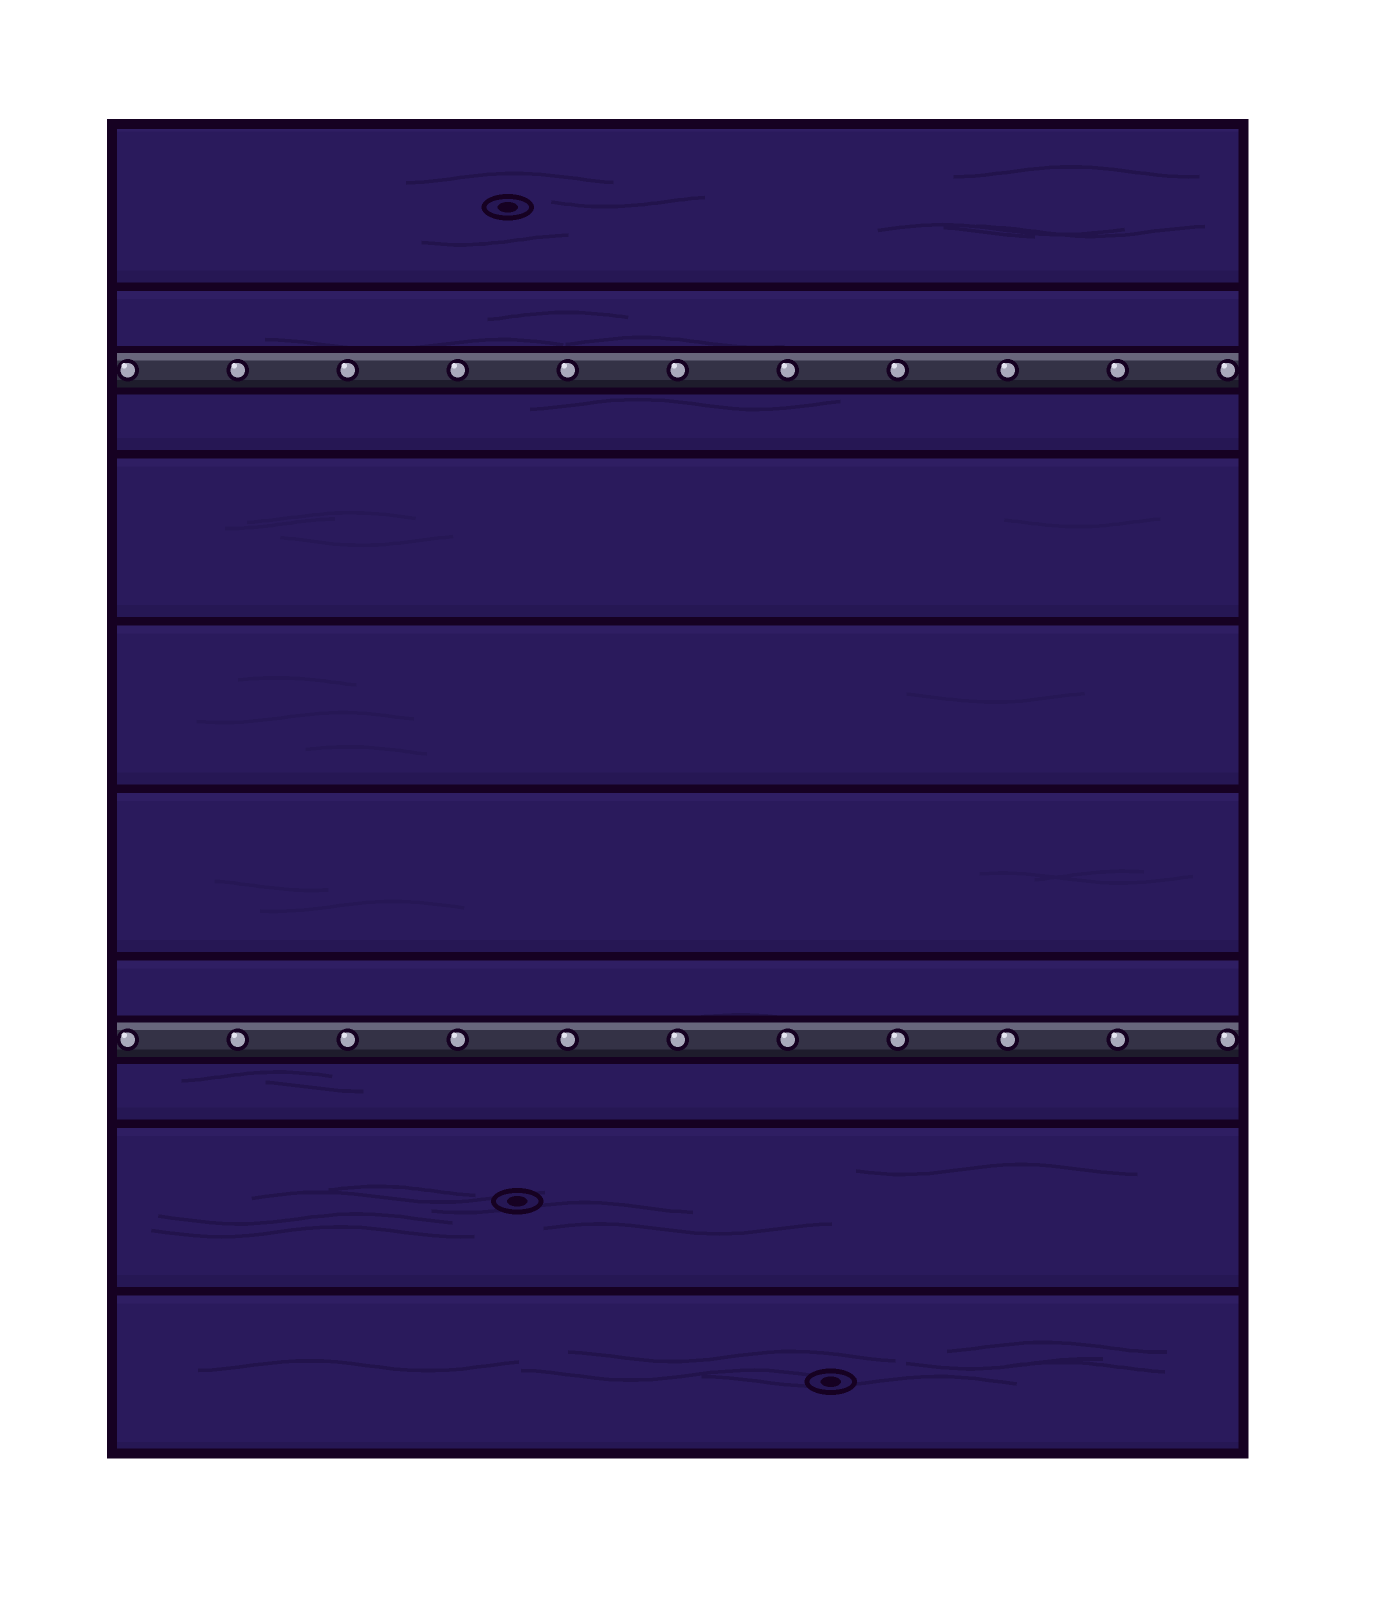
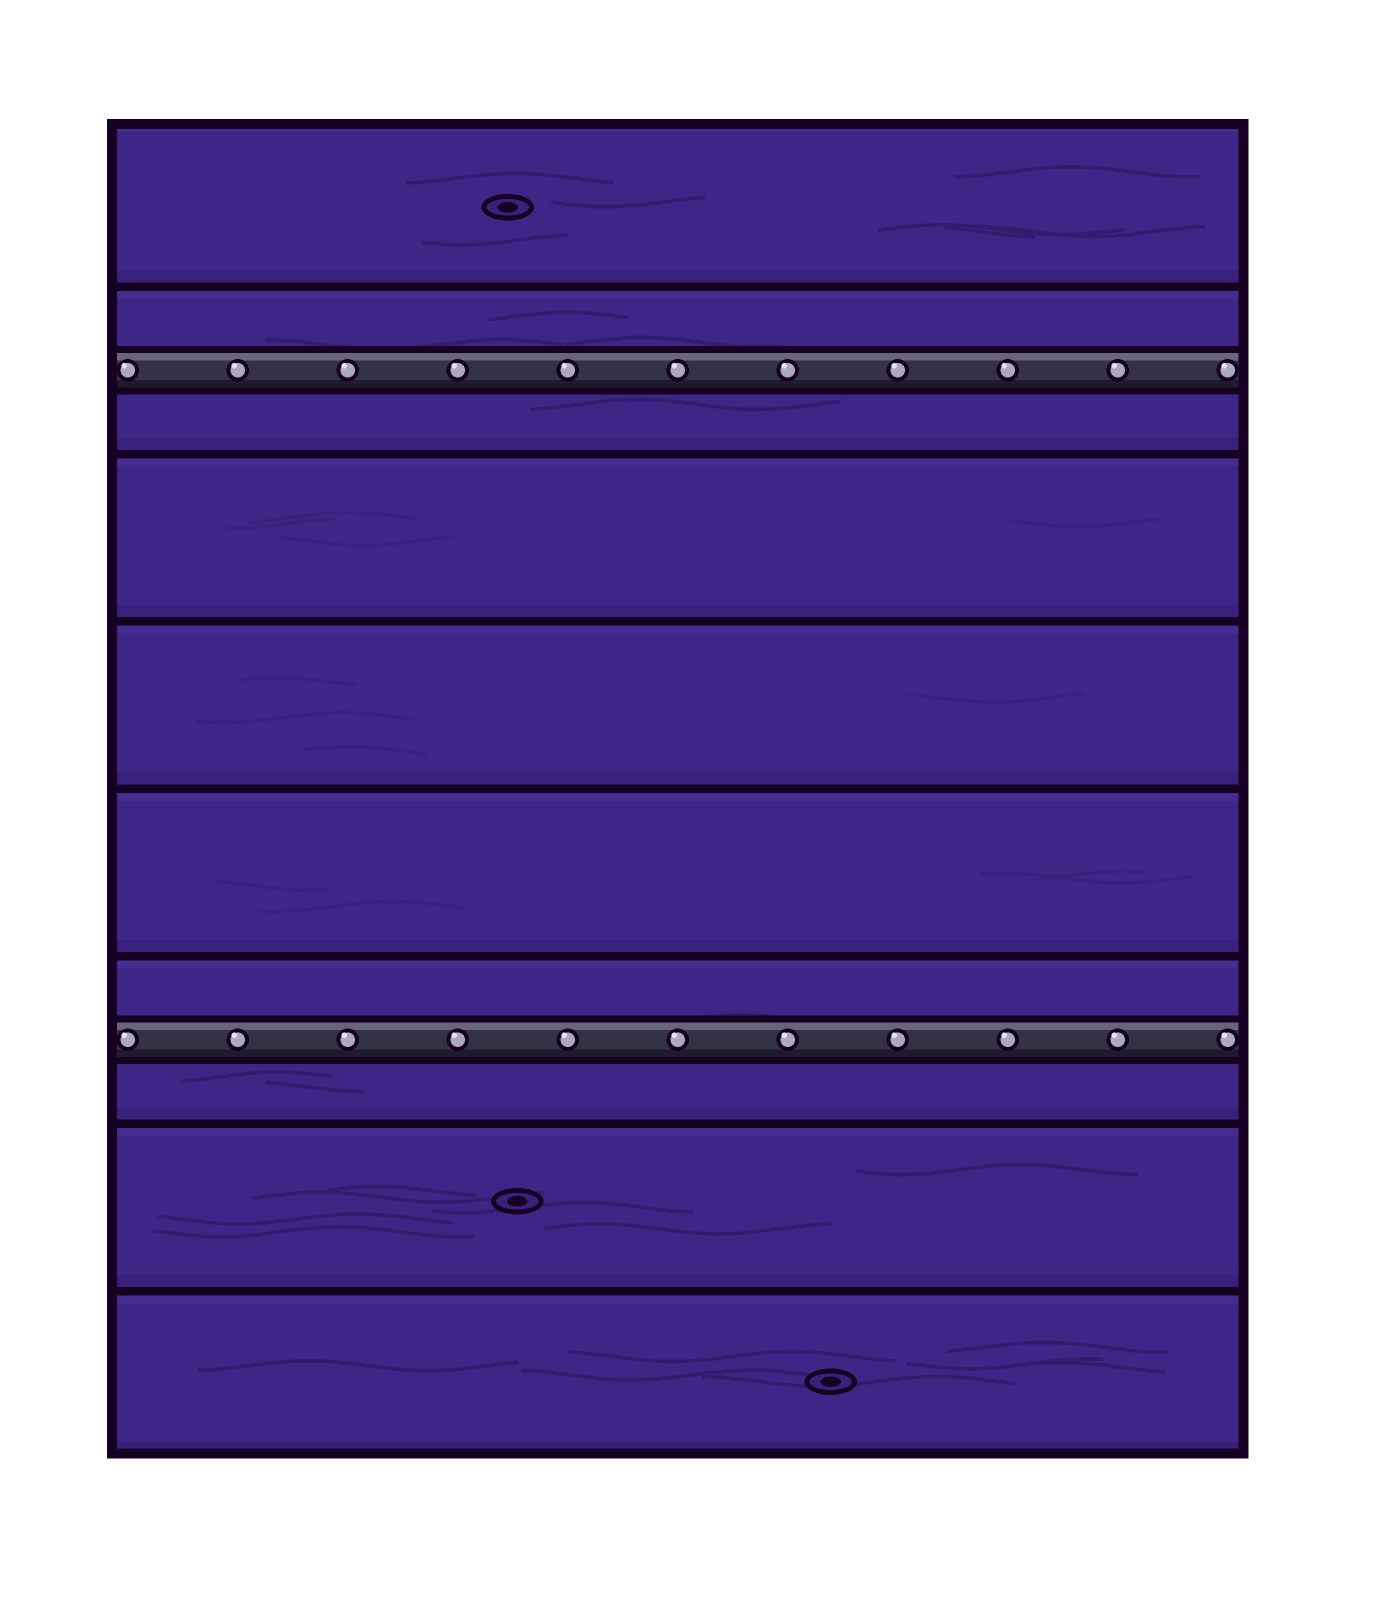
Daily: castle and blocks in the hero book's purple; door lightened (Pete)
build_daily_castle.py gains a last step that retints the castle's purples
onto the hero book cover's, read from hero-book-rig-v1/cover-outer.png:
the lit stone face (106, 39, 183) moves to the book's (40, 28, 115) and
every shade keeps its place. The answer blocks' face is that purple. The
door is Pete's indigo x 1.45 (option B) so it stays lighter than the
castle; clue contrast 10.8:1. The popped block's top face matches the door.

Claude-Session: https://claude.ai/code/session_01TxB5WRXMWunrcoTTHjrKMD

diff --git a/tools/art/build_daily_castle.py b/tools/art/build_daily_castle.py
@@ -18,7 +18,13 @@ it matches Polly. This script:
      1290 x 2796 castle canvas at OFFSET_Y, sky colour filled above, so the
      courtyard floor runs under the answer wall;
   5. cuts the arch opening out (flood fill of its flat colour), so the gate
-     and tunnel behind it show.
+     and tunnel behind it show;
+  6. retints every purple to the hero book's cover (Pete, 2026-09-27: the
+     castle was too light): hue, saturation and brightness move by the
+     difference between the castle's lit stone face (median purple in
+     STONE_SAMPLE, the right tower's face) and the book's median cover
+     purple, measured from HERO_BOOK itself, so every shade keeps its place
+     relative to the others. Gold and the opening's shape are untouched.
 
 It prints the opening's measurements; app/ui/dailyCastleScene.ts mirrors them.
 Rerun it, never hand-edit the output.
@@ -42,6 +48,9 @@ STRETCH_ADD = 60 + (STEP_CUT[1] - STEP_CUT[0])   # the cut step's height goes to
 OFFSET_Y = 70              # canvas px: clues clear the HUD on 375x667, step edge above the coins
 OPENING_SEED = (432, 520)  # source px inside the opening (after centring)
 OPENING_TOL = 20           # colour tolerance for the opening flood fill
+
+HERO_BOOK = ROOT / "assets/images/hero-book-rig-v1/cover-outer.png"
+STONE_SAMPLE = (900, 400, 1290, 1000)   # canvas px: the right tower's lit stone face
 
 GOLDS = [(0x8F, 0x6F, 0x18), (0xC8, 0x92, 0x0E), (0xF5, 0xC8, 0x42), (0xFF, 0xF7, 0xD6)]
 
@@ -67,6 +76,47 @@ def regold(a):
     out = a.astype(np.float32)
     out[gold] = ramp[gold]
     return out.clip(0, 255).astype(np.uint8), int(gold.sum())
+
+
+def purples(rgb):
+    h, s, v = hsv(rgb)
+    return (h >= 235) & (h <= 305) & (s > 0.25), h, s, v
+
+
+def median_purple(rgb, mask):
+    return np.median(rgb[mask].reshape(-1, 3), axis=0)
+
+
+def hsv_of(c):
+    return [x.item() for x in hsv(np.array(c, np.float32).reshape(1, 1, 3))]
+
+
+def hsv_to_rgb(h, s, v):
+    c = v * s
+    hp = (h / 60) % 6
+    x = c * (1 - np.abs(hp % 2 - 1))
+    z = np.zeros_like(h)
+    conds = [hp < 1, hp < 2, hp < 3, hp < 4, hp < 5, hp >= 5]
+    r = np.select(conds, [c, x, z, z, x, c]); g = np.select(conds, [x, c, c, x, z, z]); b = np.select(conds, [z, z, x, c, c, x])
+    m = v - c
+    return np.stack([r + m, g + m, b + m], -1) * 255
+
+
+def retint(rgb):
+    """Move the castle's purples onto the hero book's cover purple."""
+    book = np.array(Image.open(HERO_BOOK).convert("RGBA"))
+    book_mask, *_ = purples(book[..., :3])
+    book_mask &= book[..., 3] > 250
+    target = median_purple(book[..., :3], book_mask)
+    mask, h, s, v = purples(rgb)
+    x0, y0, x1, y1 = STONE_SAMPLE
+    face = mask[y0:y1, x0:x1] & (v[y0:y1, x0:x1] > 0.55)     # lit faces, not shading or lines
+    source = median_purple(rgb[y0:y1, x0:x1], face)
+    (th, ts, tv), (sh, ss, sv) = hsv_of(target), hsv_of(source)
+    out = rgb.astype(np.float32)
+    new = hsv_to_rgb(h + (th - sh), np.clip(s * ts / ss, 0, 1), np.clip(v * tv / sv, 0, 1))
+    out[mask] = new[mask]
+    return out.clip(0, 255).astype(np.uint8), source, target
 
 
 def centre(a):
@@ -114,7 +164,9 @@ def main():
     h = min(big.shape[0], H - OFFSET_Y)
     canvas[OFFSET_Y:OFFSET_Y + h, :, :3] = big[:h]
     canvas[OFFSET_Y:OFFSET_Y + h, :, 3] = np.where(grown[:h], 0, 255)
+    canvas[..., :3], castle_purple, book_purple = retint(canvas[..., :3])
     Image.fromarray(canvas, "RGBA").save(OUT, optimize=True)
+    print(f"retint: castle median purple {castle_purple.round()} -> hero book {book_purple.round()}")
 
     ys, xs = np.nonzero(grown); ys = ys + OFFSET_Y
     print(f"wrote {OUT.name}: gold px remapped {n_gold}, source scale {k:.4f}, image bottom {OFFSET_Y + h} px")

diff --git a/tools/art/build_daily_plaque.py b/tools/art/build_daily_plaque.py
@@ -2,9 +2,10 @@
 
 Pete's design (2026-09-27). A block sits flush in the answer wall like a
 brick; the only thing that sets it apart is its gold outline, which is its
-mortar. Its face is his muted purple (55, 41, 89), a touch lighter across the
-middle. When tapped it pops out of the wall and its top face shows: a
-trapezoid in the door's indigo (42, 26, 92), ringed in the same gold, drawn
+mortar. Its face is the castle's colour, the hero book's cover purple
+(40, 28, 116), a touch lighter across the middle (Pete, 2026-09-27; it was
+his muted (55, 41, 89)). When tapped it pops out of the wall and its top face shows: a
+trapezoid in the door's indigo (61, 38, 133), ringed in the same gold, drawn
 above the block by DailyAnswerCard. Pulled out, it leaves its recess in the
 wall art (build_daily_answer_wall.py).
 
@@ -26,10 +27,13 @@ W, H = 437, 229             # 3x (465 - 2*14) / 3 by (742 - 4*14) / 9 pt
 TOP_H = 46                  # top face height, px; TOP_RATIO in DailyAnswerCard = TOP_H / H
 TOP_INSET = 0.07            # the top face's back edge is inset this share of the width each side
 GOLD = (245, 200, 66)
-FACE = (55, 41, 89)
-FACE_MID = (60, 44, 96)
-FACE_LOW = (48, 36, 80)
-TOP = (42, 26, 92)          # the door's indigo
+# The castle's colour, which is the hero book's cover (Pete, 2026-09-27): the
+# book cover's median purple, its 75th and 25th percentiles for the lighter
+# middle and the darker foot (hero-book-rig-v1/cover-outer.png).
+FACE = (40, 28, 116)
+FACE_MID = (46, 30, 124)
+FACE_LOW = (35, 26, 105)
+TOP = (61, 38, 133)         # the door's indigo face (build_daily_door.py); change both together
 BORDER = 9                  # gold mortar round the face, px
 SS = 4
 

diff --git a/tools/art/build_daily_door.py b/tools/art/build_daily_door.py
@@ -36,7 +36,10 @@ SEAM = 8                    # px, about 2.5 pt: Pete's seam thickness
 WOODS = {
     # face, highlight, shadow, grain. Pete's tints (2026-09-26), sampled from
     # his edits of the first drafts; grain keeps the drafts' ratio to the face.
-    "indigo": ((42, 26, 92), (47, 30, 99), (38, 23, 84), (34, 19, 76)),
+    # Indigo is his tint x 1.45 (Pete, 2026-09-27, option B): the castle went
+    # dark to the hero book's purple, so the door is lighter than the castle
+    # now. Clue contrast (cream #FFF7D6 on the face) 10.8:1.
+    "indigo": ((61, 38, 133), (68, 44, 144), (55, 33, 122), (49, 28, 110)),
     "brown": ((89, 49, 24), (96, 54, 27), (82, 44, 22), (74, 39, 20)),
 }
 IRON = ((52, 50, 70), (104, 102, 124), (30, 28, 44))

diff --git a/CLAUDE.md b/CLAUDE.md
@@ -128,7 +128,9 @@ sequence are in `docs/DAILY_CHALLENGE_SPEC.md`. Rebuilt on branch `daily-castle-
 - One scene, `DailyCastleStage.tsx`, behind entry, play and Results. `castle_cartoon.png` and
   `answerwall_framed.png` share one 1290 × 2796 canvas, drawn full width and bottom-anchored
   as one piece; never position either alone.
-- The castle is cartoon art to match Polly (Pete, 2026-09-26). `build_daily_castle.py` builds
+- The castle is cartoon art to match Polly (Pete, 2026-09-26), in the hero book's cover purple
+  (Pete, 2026-09-27: its last step retints the stone from `hero-book-rig-v1/cover-outer.png`;
+  the answer blocks' face is that purple too). `build_daily_castle.py` builds
   it from `tools/art/source/castle_cartoon_src.png`: golds remapped to the game's, arch
   centred, straight sides stretched for the clue planks, opening cut out, measurements
   printed. The old painted `ARCHNEW.png` is deleted.
@@ -149,7 +151,8 @@ sequence are in `docs/DAILY_CHALLENGE_SPEC.md`. Rebuilt on branch `daily-castle-
   `dailyGateLineY`, `dailyGateOpenTravel`, `dailyGateMaxSink`, `resolveDailyGateClueRects`)
   take that clue top. The scene only drops when even `DAILY_CLUE_TOP_MAX` is under the HUD.
 - **Door and clues: LOCKED (Pete, device-approved 2026-09-26).** `gate_door.png` from
-  `build_daily_door.py`: cartoon indigo planks in Pete's tint, dark 2.5 pt seams, two iron
+  `build_daily_door.py`: cartoon indigo planks in Pete's tint (x1.45 since the castle went
+  dark, 2026-09-27; the popped block's top face shares it), dark 2.5 pt seams, two iron
   straps off the clue planks. Planks are 52 pt; clues capped at 20 pt, split into two even
   lines (`balanceDailyClue`). Never gold seams (too busy). Don't change the door, its tint,
   the seams or the clue size without Pete reopening it. The castle has three steps: the build

diff --git a/CONTEXT.md b/CONTEXT.md
@@ -60,7 +60,8 @@ branch showing days-old art on 2026-09-26 was exactly this. Tests run on Node 24
 Daily castle (on `daily-castle-test`):
 1. Cartoon pass (Pete, 2026-09-26): coins done (option D, silver and a 100 pt gold). The
    castle is now cartoon art (castle B, `castle_cartoon.png`) so it matches Polly, and so is the
-   door (indigo planks, Pete's tint; locked), the answer wall (Pete's design, slate frame;
+   door (indigo planks, Pete's tint, lightened when the castle took the hero book's purple
+   on 2026-09-27; locked), the answer wall (Pete's design, slate frame;
    locked; its panels became block recesses on 2026-09-27) and the answer blocks (Pete's
    flush gold-mortared blocks; locked 2026-09-27) and the tunnel (drawn by script;
    locked 2026-09-27). No painted art is left on the Daily screen. Sharper
